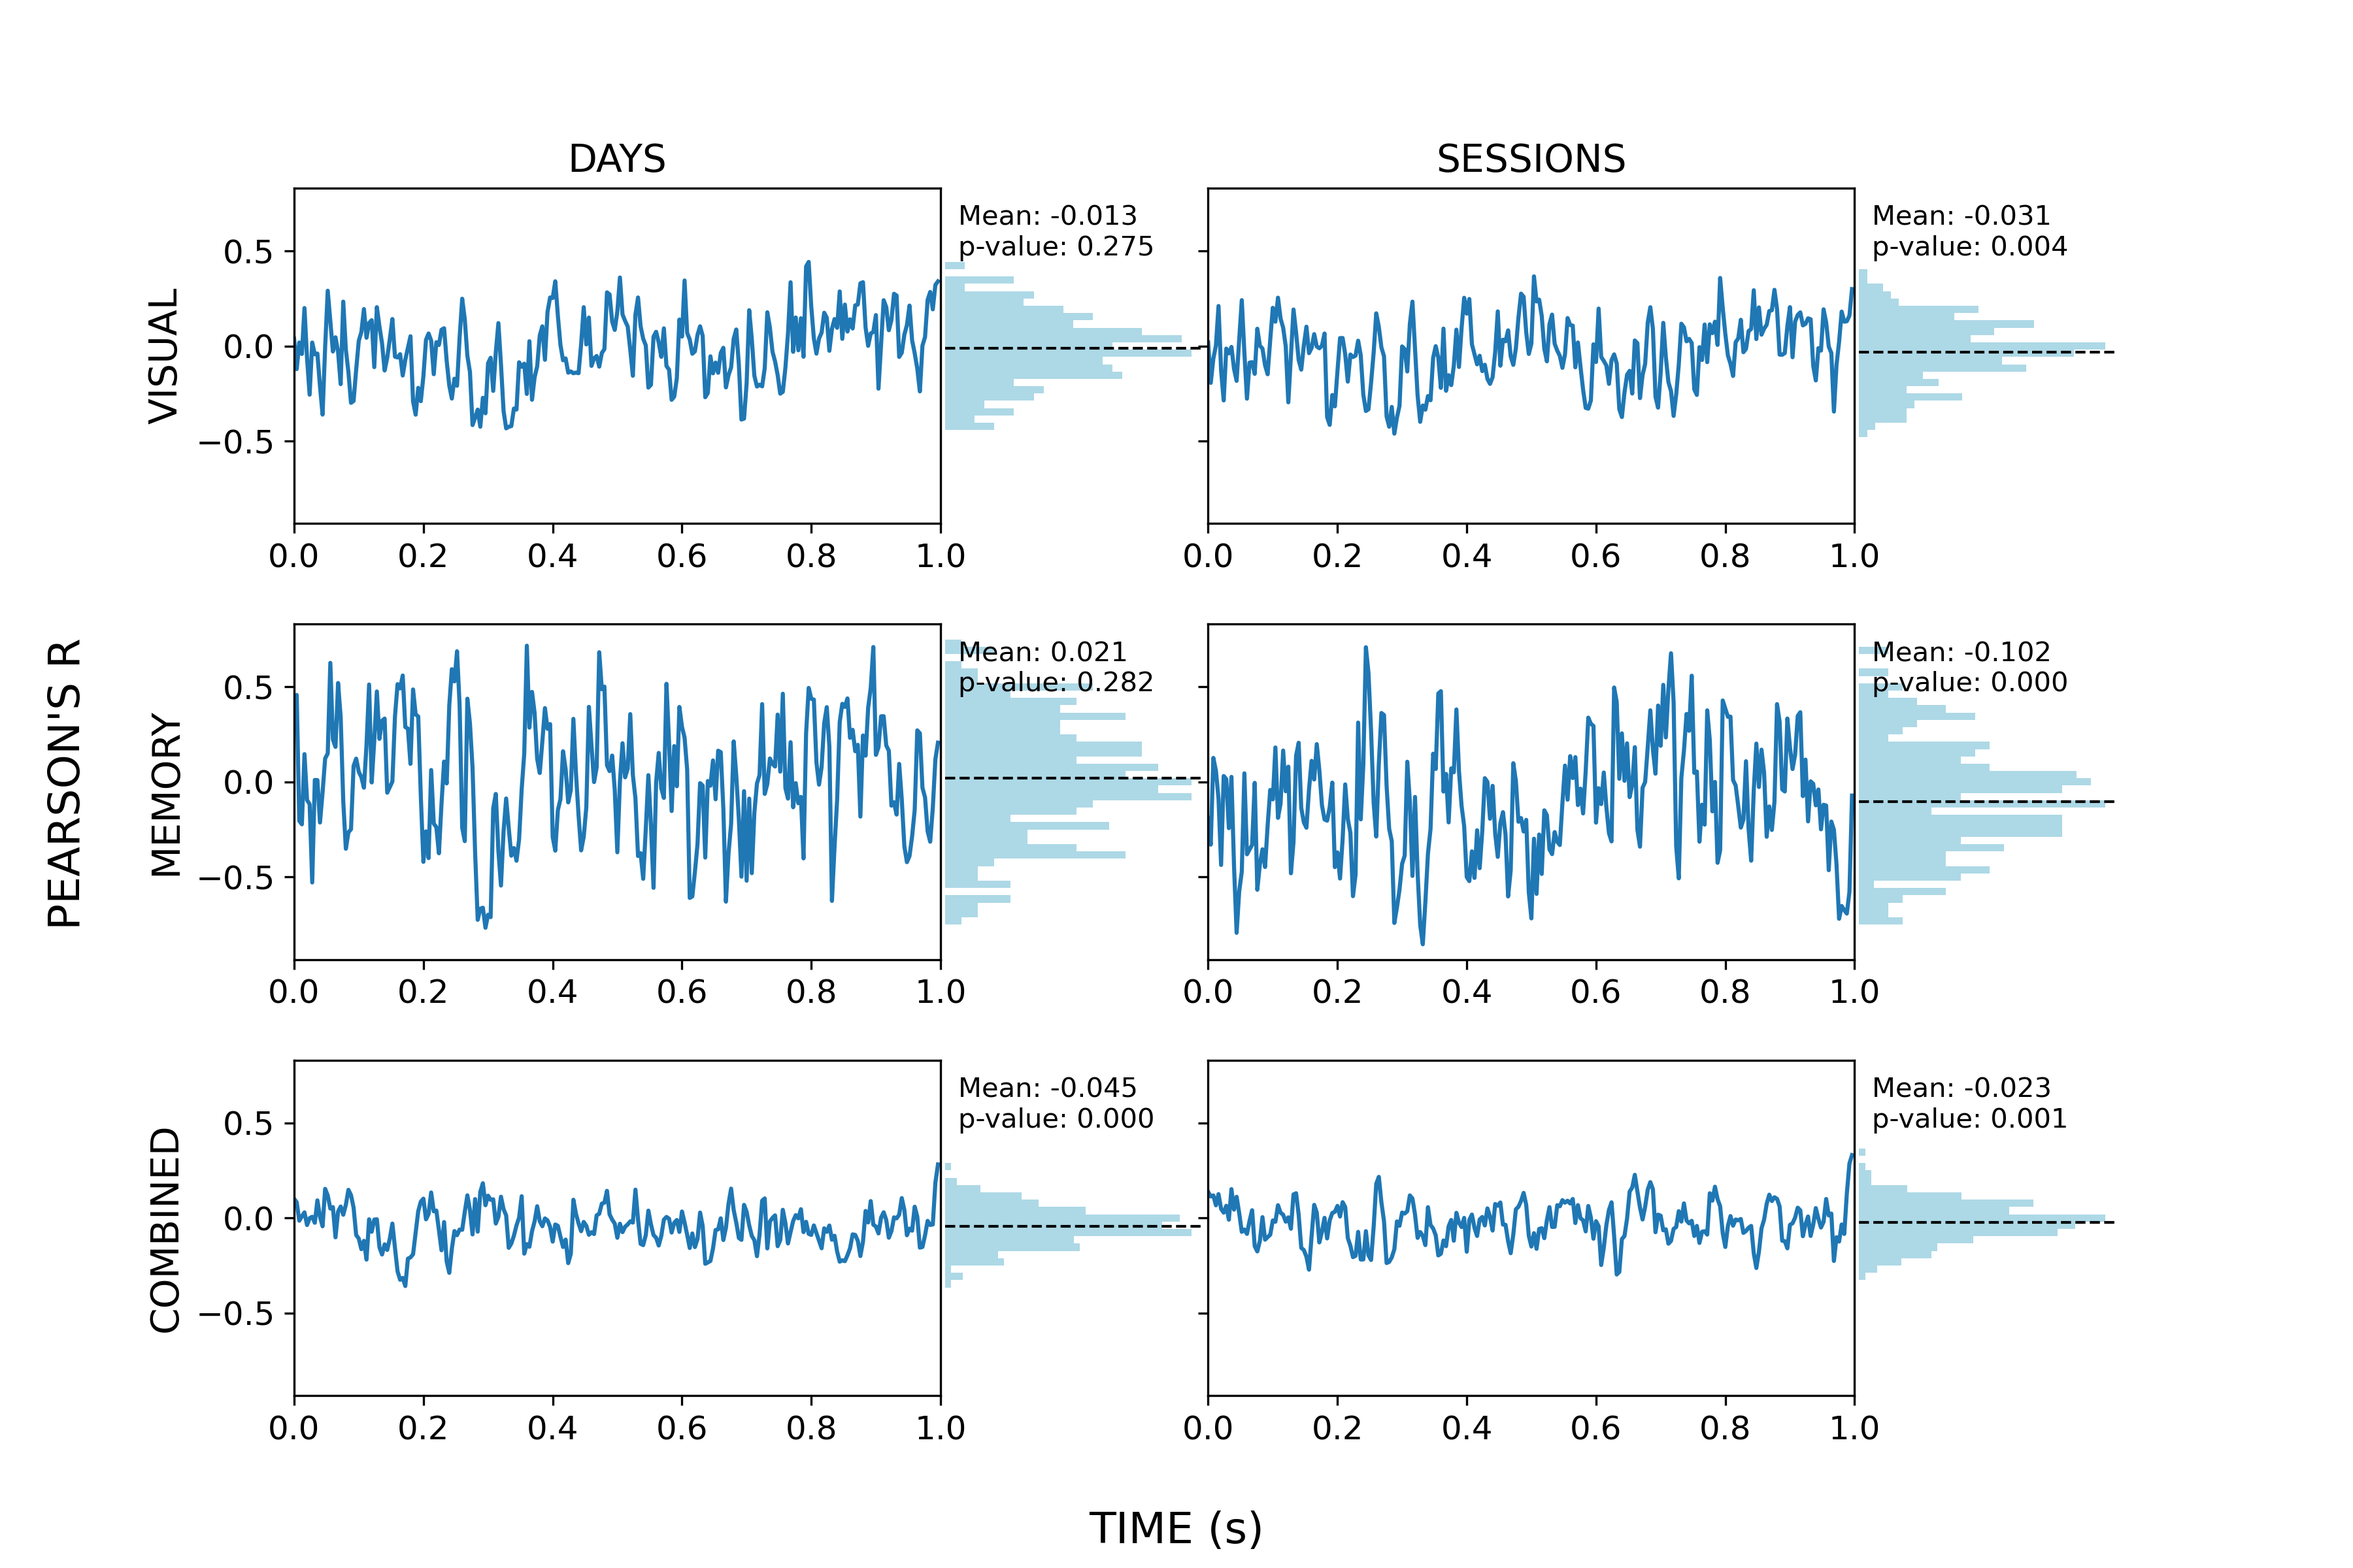
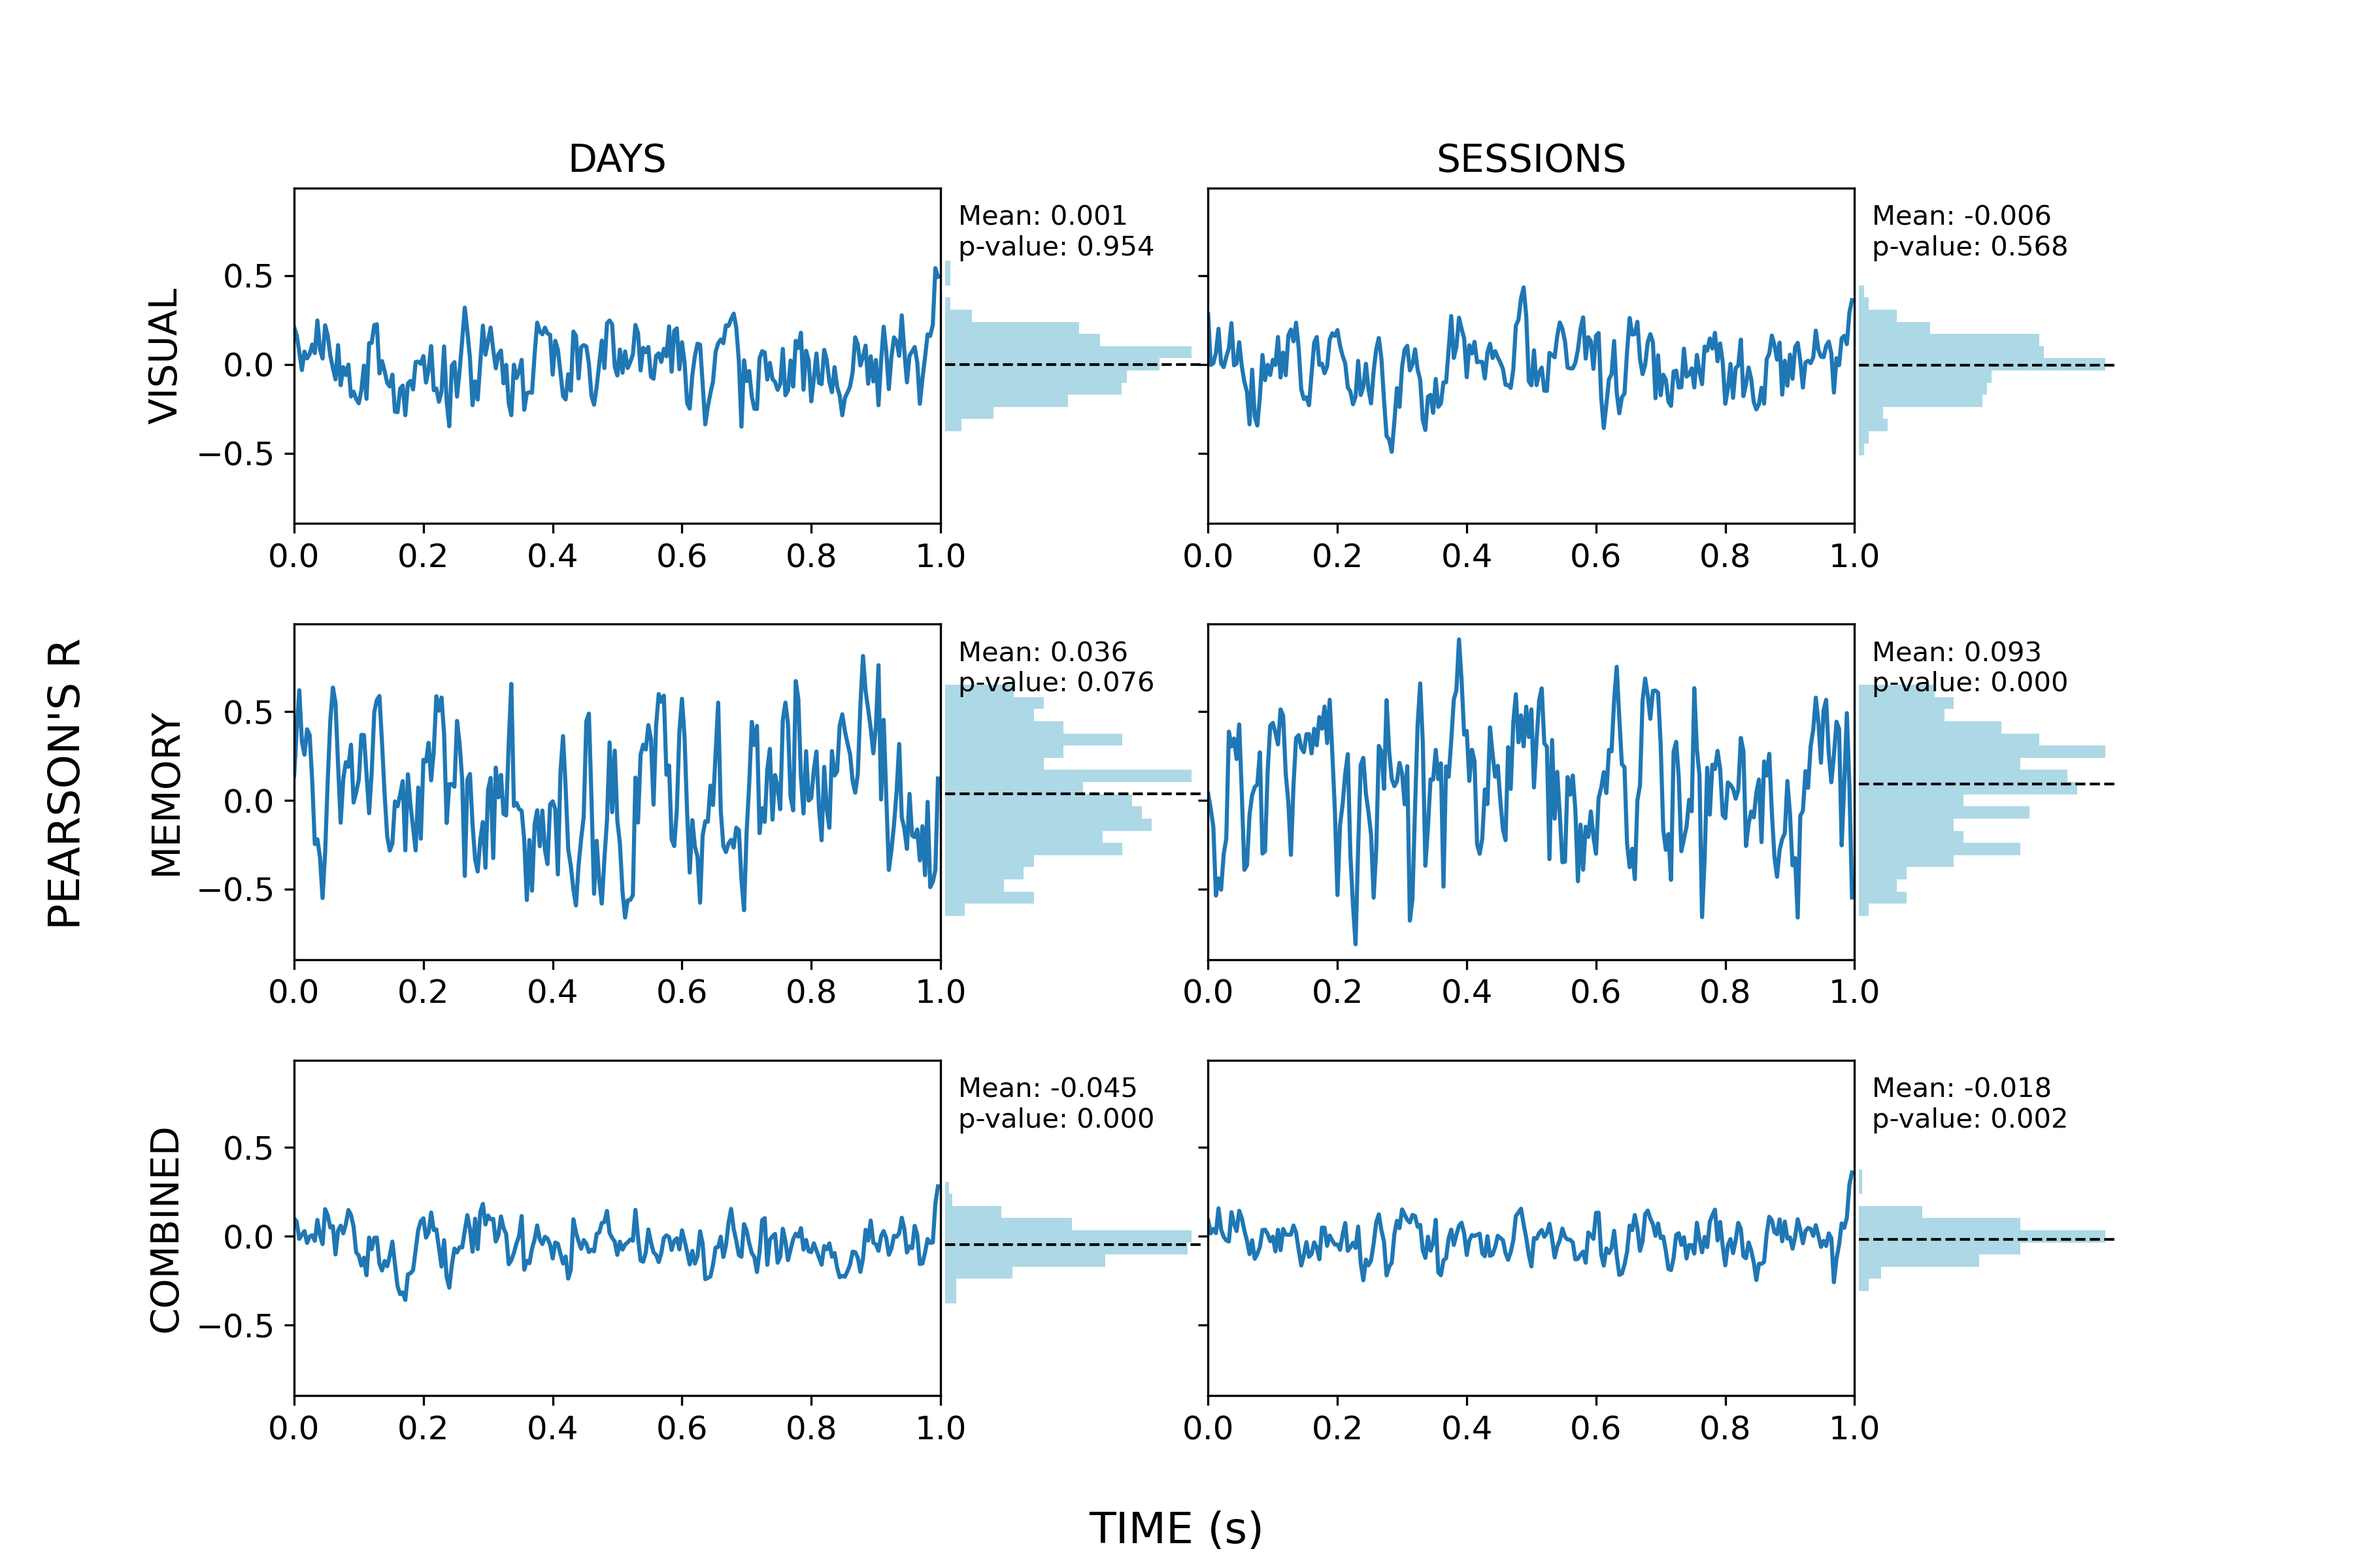
fix bug in distance for order

diff --git a/decoding/cross_decoding/dist_acc_corr.py b/decoding/cross_decoding/dist_acc_corr.py
@@ -67,9 +67,6 @@ def prep_x_y(acc, dist):
             if dist[i,j] != 0: # do not include within session decoding
                 X.append(np.diag(acc[i, j, :, :]))
                 y.append(dist[i, j])
-
-    # min max normalize y between 0 and 1
-    #y = (y - np.min(y)) / (np.max(y) - np.min(y))
     
     return X, y
 
@@ -84,8 +81,6 @@ def prep_x_y_cond(acc, dist):
                 X.append(np.diag(acc[i, j, :, :]))
                 y.append(dist[i, j])
     
-    # min max normalize y between 0 and 1
-    #y = (y - np.min(y)) / (np.max(y) - np.min(y))
     return X, y
 
 def get_corr_pval(X, y):
@@ -137,33 +132,35 @@ def plot_corr_hist(acc, save_path = None):
     vis_indices = [0, 1, 2, 3, 4, 5, 6]
     vis_acc = acc[vis_indices, :, :, :][:, vis_indices, :, :]
 
-    # order of sessions
-    order = [0, 1, 2, 3, 7, 8, 9, 10, 4, 5, 6] 
-
     # convert to datetime
     dates = to_datetime(['08-10-2020', '09-10-2020', '15-10-2020', '16-10-2020', '02-03-2021', '16-03-2021', '18-03-2021', '22-10-2020', '29-10-2020', '12-11-2020', '13-11-2020'], format='%d-%m-%Y')
-
+    order = np.array([0, 1, 2, 3, 8, 9, 10, 4, 5, 6, 7])
+    
+       
     # set up figure
     gs_kw = dict(width_ratios=[1, 0.4, 1, 0.4], height_ratios=[1, 1, 1], wspace=0.01, hspace=0.3)
     fig, axes = plt.subplots(3, 4, figsize=(12, 8), dpi=300, gridspec_kw=gs_kw, sharey=True)
 
-    bin_range = (-0.75, 0.75)
+    bin_range = (-0.65, 0.65)
 
-    bins = np.linspace(bin_range[0], bin_range[1], 40)
+    bins = np.linspace(bin_range[0], bin_range[1], 20)
 
     for i, (tmp_acc, inds) in enumerate(zip([vis_acc, mem_acc, acc], [vis_indices, mem_indices, None])):
+        tmp_dates = dates.copy()[inds] if inds is not None else dates.copy()
+        tmp_order = [i for i in order if i in inds] if inds is not None else order.copy()
+
         for j, dist_type in enumerate(["dates", "order"]):
             if dist_type == "dates":
-                dist = get_distance_matrix(dates)
+                dist = get_distance_matrix(tmp_dates)
             elif dist_type == "order":
-                dist = get_distance_matrix(order)
+                dist = get_distance_matrix(tmp_order)
 
             ax_hist = axes[i, j*2+1]
             ax_corr = axes[i, j*2]
-
-            # use indices for visual and memory, not for combined
-            if inds is not None:
-                dist = dist[inds, :][:, inds]
+            
+            
+            print(dist_type)
+            print(dist, "\n\n")
 
             # get x and y
             X, y = prep_x_y(tmp_acc, dist)
@@ -173,7 +170,7 @@ def plot_corr_hist(acc, save_path = None):
 
             # test if mean of correlations is significantly different from 0
             t, p = ttest_1samp(corr, 0)
-            print(f"Mean correlation: {np.mean(corr):.3f}, p-value: {p:.3f}")
+            #print(f"Mean correlation: {np.mean(corr):.3f}, p-value: {p:.3f}")
 
             # plot correlation
             ax_corr.plot(corr) 
@@ -220,11 +217,11 @@ def plot_corr_hist_cond(acc, save_path = None):
     
     # set up figure
     gs_kw = dict(width_ratios=[1, 0.4], height_ratios=[1], wspace=0.01, hspace=0.3)
-    fig, ax = plt.subplots(1, 2, figsize=(8, 4), dpi=300, gridspec_kw=gs_kw)
+    fig, ax = plt.subplots(1, 2, figsize=(8, 6), dpi=300, gridspec_kw=gs_kw)
 
-    bin_range = (-0.75, 0.75)
+    bin_range = (-0.5, 0.5)
 
-    bins = np.linspace(bin_range[0], bin_range[1], 40)
+    bins = np.linspace(bin_range[0], bin_range[1], 20)
 
     # plot correlation
     ax[0].plot(corr)
@@ -235,10 +232,8 @@ def plot_corr_hist_cond(acc, save_path = None):
     ax[0].set_xlim([0, 250])
 
     # plot histogram of correlations
-    plot_corr_hist(ax[1], corr, p, bins)
-    
-    # add title
-    ax[0].set_title("Correlation".upper())
+    plot_hist_of_corr(ax[1], corr, p, bins)
+    print(f"Mean correlation: {np.mean(corr):.3f}, p-value: {p:.3f}")
 
     # add y label
     ax[0].set_ylabel("PEARSON'S R", fontsize=16)
